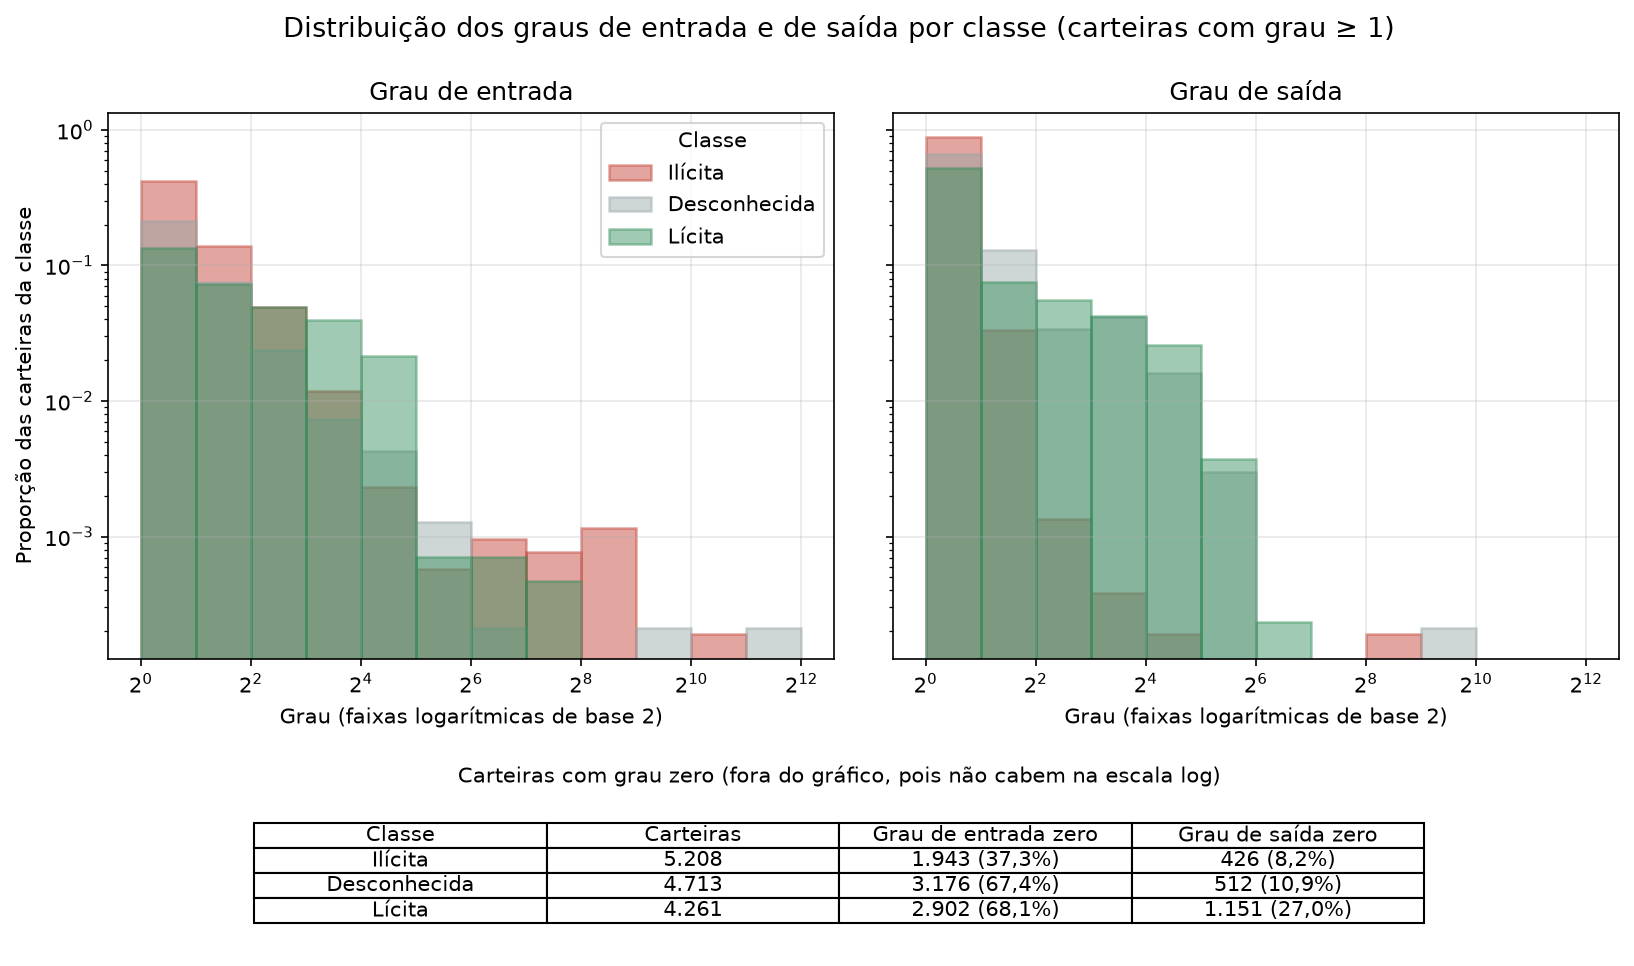
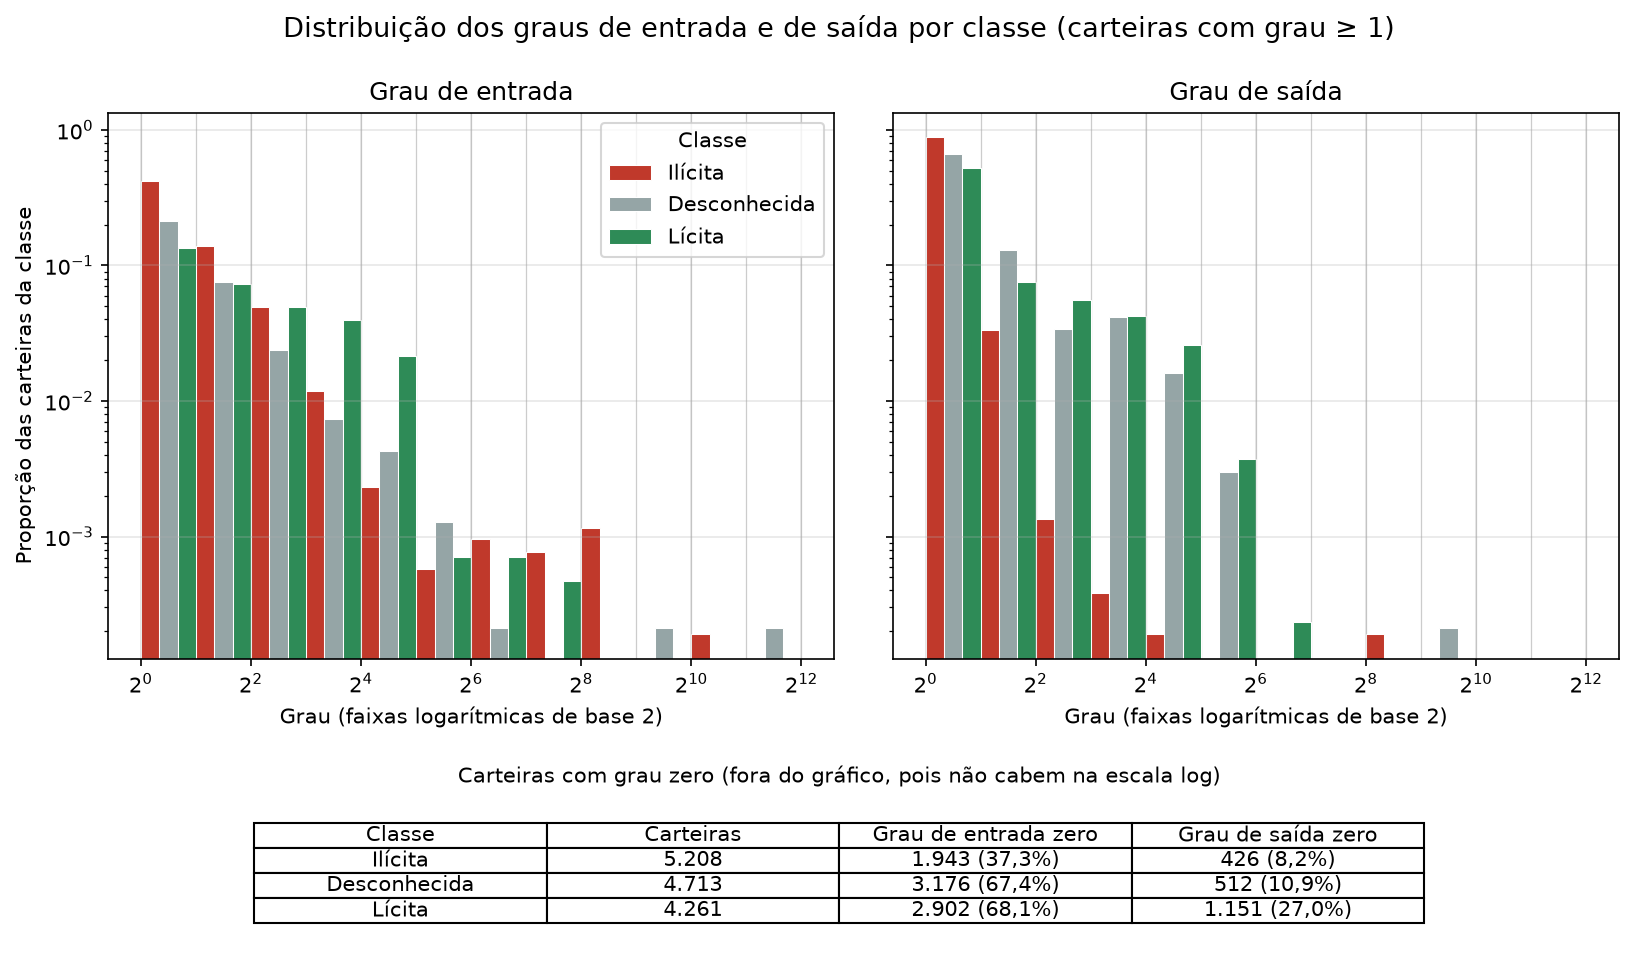
fix(parte2): coloca as barras das classes lado a lado no histograma dos graus

Changed region(s): [[0.0624, 0.1863, 0.4994, 0.6832], [0.5618, 0.1242, 0.9051, 0.6832], [0.3745, 0.1553, 0.4058, 0.2795]]

diff --git a/scripts/graus_parte2.py b/scripts/graus_parte2.py
@@ -67,7 +67,8 @@ def resumo(graus: pd.DataFrame, n_arestas: int, top: int = 5) -> dict:
     return saida
 
 
-# Figuras: tipo, escalas e elementos definidos pelo Davi (histograma log-log com faixas logarítmicas e proporção
+# Figuras: tipo, escalas e elementos definidos pelo Davi (histograma log-log com faixas logarítmicas, barras das
+# classes lado a lado em cada faixa e proporção
 # dentro da classe; CCDF log-log; um painel por direção; tabela dos graus zero abaixo do histograma).
 # Cores e ordem das classes iguais às do notebook da AVD.
 ORDEM = ["ilicito", "desconhecido", "licito"]
@@ -112,16 +113,26 @@ def figura_histograma(graus: pd.DataFrame, caminho: Path) -> None:
     matplotlib.use("Agg")
     import matplotlib.pyplot as plt
 
+    import numpy as np
+
     limites = faixas_log(int(graus[list(DIRECOES.values())].max().max()))
+    inicio = np.array(limites[:-1], dtype=float)
+    n = len(ORDEM)
     fig, eixos = plt.subplots(1, 2, figsize=(13, 6.5), sharey=True)
     for eixo, (direcao, coluna) in zip(eixos, DIRECOES.items()):
-        for classe in ORDEM:
+        for i, classe in enumerate(ORDEM):
             serie = graus.loc[graus["classe"] == classe, coluna]
-            positivos = serie[serie > 0]
+            contagem, _ = np.histogram(serie[serie > 0], bins=limites)
             # proporção em relação à classe inteira (inclui as carteiras de grau zero, que vão para a tabela)
-            eixo.hist(positivos, bins=limites, weights=[1 / len(serie)] * len(positivos),
-                      color=CORES[classe], alpha=0.45, edgecolor=CORES[classe], linewidth=1.2,
-                      label=NOMES[classe])
+            proporcao = contagem / len(serie)
+            # barras lado a lado: cada faixa [a, 2a) é dividida em n partes iguais na escala log
+            esquerda = inicio * 2 ** (i / n)
+            largura = inicio * 2 ** ((i + 1) / n) - esquerda
+            mostrar = proporcao > 0
+            eixo.bar(esquerda[mostrar], proporcao[mostrar], width=largura[mostrar], align="edge",
+                     color=CORES[classe], edgecolor="white", linewidth=0.5, label=NOMES[classe])
+        for limite in limites:
+            eixo.axvline(limite, color="#cccccc", linewidth=0.6, zorder=0)
         eixo.set_xscale("log", base=2)
         eixo.set_yscale("log")
         eixo.set_title(TITULOS[direcao])

diff --git a/docs/REGISTRO_IA.md b/docs/REGISTRO_IA.md
@@ -75,3 +75,4 @@ Exigido pelo enunciado: todo uso de IA é declarado aqui e na `DECLARACAO_IA.pdf
 | 18/11/2026 | Davi | Claude Code | Atualização do README (P5c): reorganização das seções a partir dos comandos da CLI, dos scripts, das saídas em `out/` e dos documentos já escritos pelo grupo (`PARTE2_DATASET.md`, `relatorio/parte2.md`, `front-react/README.md`); comandos conferidos rodando a CLI. Só descreve como instalar, executar e onde ficam as saídas, sem interpretação de resultados | `README.md` | Permitido (documentação) |
 | 18/11/2026 | Davi | Claude Code | Script de contagem dos graus de entrada e saída das carteiras do recorte com pandas (por carteira, frequência de cada grau e estatísticas no total e por classe), exportação para CSV/JSON e testes. Não usa nem altera `algorithms.py`; o tipo de gráfico e a interpretação ficam com o Davi | `scripts/graus_parte2.py`, `tests/test_graus_parte2.py`, `out/parte2/graus_parte2.csv`, `out/parte2/graus_frequencia.csv`, `out/parte2/graus_resumo.json` | Permitido (IO/pandas e testes) |
 | 18/11/2026 | Davi | Claude Code | Dúvida conceitual sobre os tipos de gráfico usados para distribuição de graus (histograma, log-log, CCDF, boxplot), sem recomendação. Depois, código das duas figuras com o tipo, as escalas e os elementos definidos pelo Davi (histograma log-log com faixas de base 2 e proporção dentro da classe, CCDF log-log, painéis por direção, tabela dos graus zero) e cores das classes iguais às do notebook da AVD; testes. Nenhuma interpretação das figuras pela IA | `scripts/graus_parte2.py`, `tests/test_graus_parte2.py`, `out/parte2/graus_histograma.png`, `out/parte2/graus_ccdf.png`, `out/parte2/graus_zero.csv` | Permitido (dúvida conceitual e sintaxe de visualização) |
+| 18/11/2026 | Davi | Claude Code | Ajuste do histograma dos graus conforme decisão do Davi: barras das três classes lado a lado em cada faixa, no lugar da sobreposição com transparência; proporção sobre a classe inteira e cores da AVD mantidas | `scripts/graus_parte2.py`, `out/parte2/graus_histograma.png` | Permitido (sintaxe de visualização) |
